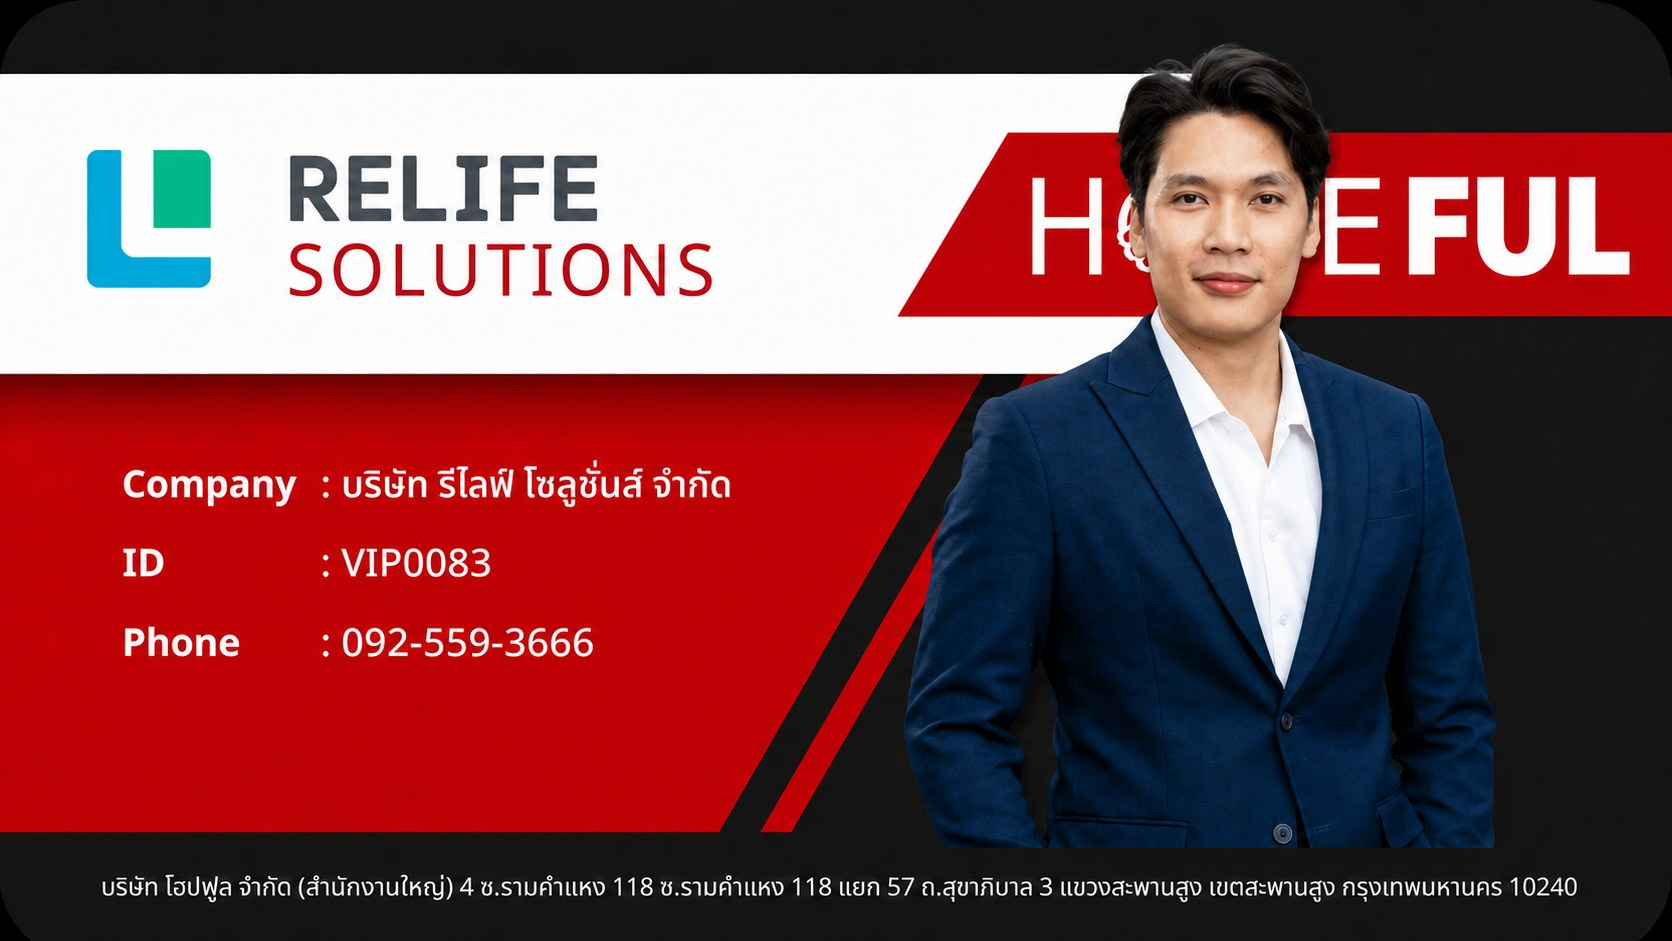
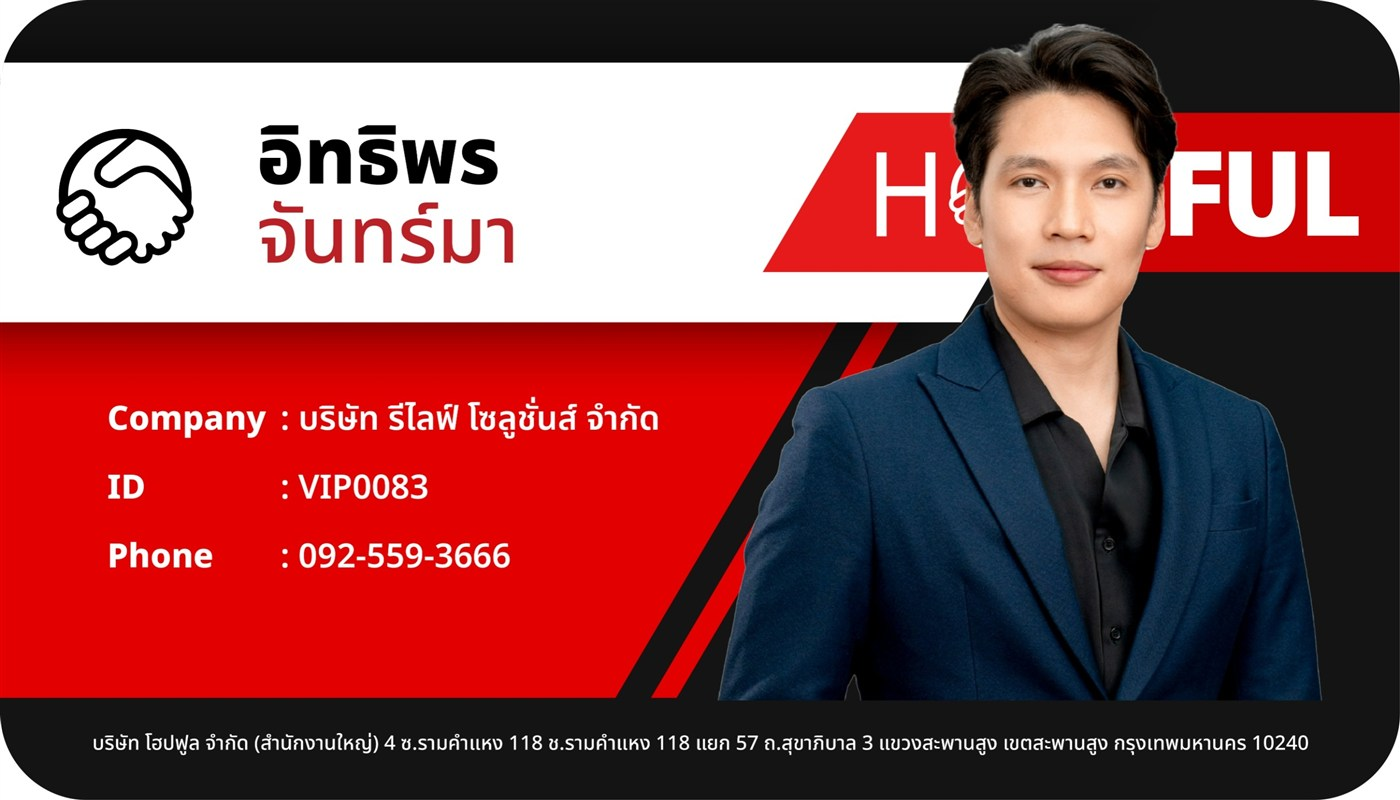
เกี่ยวกับเรา: เปลี่ยนรูปบัตรตัวแทน (อิทธิพร จันทร์มา VIP0083) + bump cache v=4

diff --git a/about.html b/about.html
@@ -39,7 +39,7 @@
     <h2>บัตรตัวแทนจำหน่ายอย่างเป็นทางการ</h2>
     <p style="color:var(--ink-soft)">เราได้รับการแต่งตั้งเป็นตัวแทนจำหน่าย (รหัส VIP0083) โดยตรงจากบริษัทผู้ผลิต — ตรวจสอบได้</p>
     <figure style="margin:16px 0 40px">
-      <img src="assets/img/distributor-card.jpg" alt="บัตรตัวแทนจำหน่ายอย่างเป็นทางการ RELIFE SOLUTIONS รหัส VIP0083"
+      <img src="assets/img/distributor-card.jpg?v=4" alt="บัตรตัวแทนจำหน่ายอย่างเป็นทางการ RELIFE SOLUTIONS รหัส VIP0083"
         style="width:100%;max-width:560px;border-radius:var(--r-lg);box-shadow:var(--sh-md);display:block">
     </figure>
 
